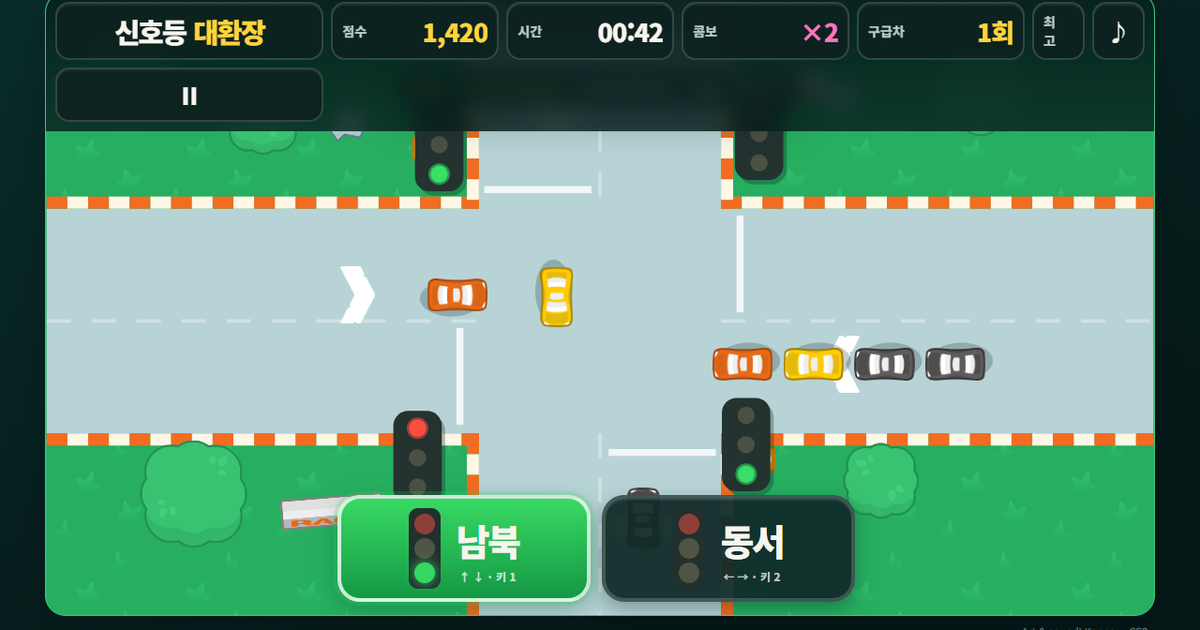
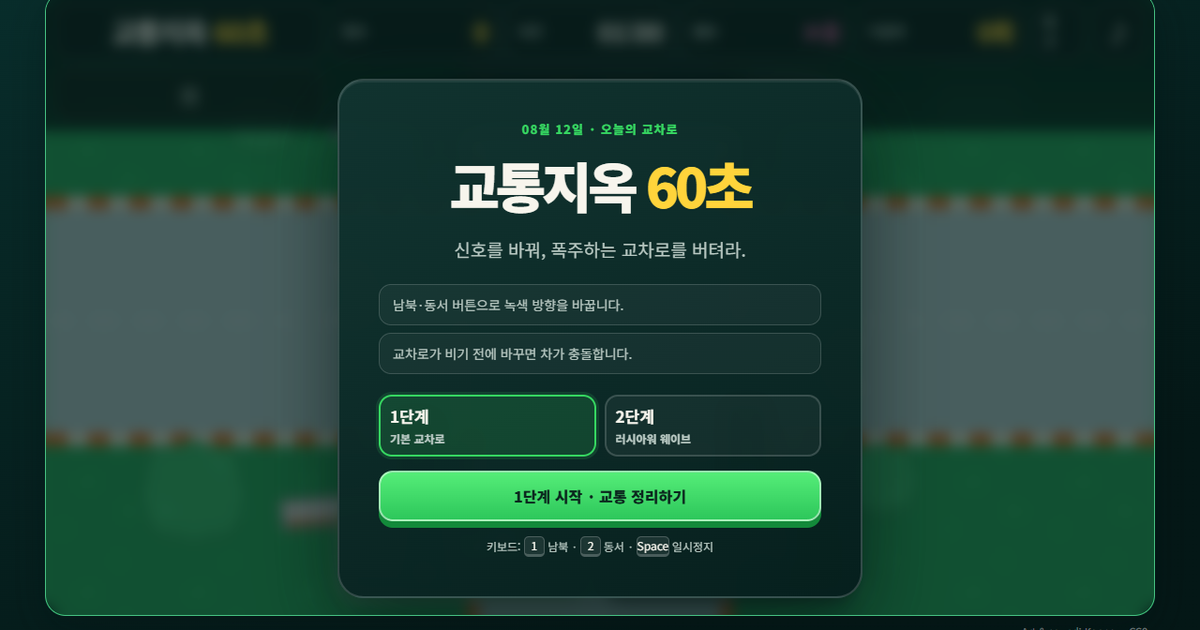
rename game to traffic hell 60 seconds

diff --git a/index.html b/index.html
@@ -6,32 +6,32 @@
     <meta name="theme-color" content="#082d2b" />
     <meta
       name="description"
-      content="두 개의 신호로 60초 교통을 지휘하고 러시아워 웨이브를 버티는 모바일 친화 탑다운 웹게임"
+      content="교통지옥 60초에서 신호를 바꿔 폭주하는 교차로를 버티는 모바일 친화 탑다운 웹게임"
     />
     <meta property="og:type" content="website" />
-    <meta property="og:site_name" content="신호등 대환장" />
+    <meta property="og:site_name" content="교통지옥 60초" />
     <link rel="canonical" href="https://traffic-madness-game.netlify.app/" />
-    <meta property="og:title" content="신호등 대환장 — 60초 교통 관제 웹게임" />
-    <meta property="og:description" content="신호를 바꿔 차량을 통과시키고, 러시아워 웨이브를 버텨 최고 점수에 도전하세요." />
+    <meta property="og:title" content="교통지옥 60초 — 폭주하는 교차로를 버텨라" />
+    <meta property="og:description" content="신호를 바꿔, 폭주하는 교차로를 버텨라." />
     <meta property="og:url" content="https://traffic-madness-game.netlify.app/" />
     <meta property="og:image" content="https://traffic-madness-game.netlify.app/og.png" />
     <meta property="og:image:width" content="1200" />
     <meta property="og:image:height" content="630" />
     <meta property="og:locale" content="ko_KR" />
     <meta name="twitter:card" content="summary_large_image" />
-    <meta name="twitter:title" content="신호등 대환장 — 60초 교통 관제 웹게임" />
-    <meta name="twitter:description" content="신호를 바꿔 차량을 통과시키고, 러시아워 웨이브를 버텨 최고 점수에 도전하세요." />
+    <meta name="twitter:title" content="교통지옥 60초 — 폭주하는 교차로를 버텨라" />
+    <meta name="twitter:description" content="신호를 바꿔, 폭주하는 교차로를 버텨라." />
     <meta name="twitter:image" content="https://traffic-madness-game.netlify.app/og.png" />
     <link rel="icon" href="/favicon.ico" sizes="32x32" />
     <link rel="icon" href="/favicon.svg?v=1" type="image/svg+xml" />
     <link rel="apple-touch-icon" href="/apple-touch-icon.png" />
     <link rel="manifest" href="/site.webmanifest?v=1" />
-    <title>신호등 대환장</title>
+    <title>교통지옥 60초 — 폭주하는 교차로를 버텨라</title>
   </head>
   <body>
     <a class="skip-link" href="#game-controls">게임 조작으로 바로가기</a>
     <main class="app" id="app">
-      <section class="game-shell" aria-label="신호등 대환장 게임">
+      <section class="game-shell" aria-label="교통지옥 60초 게임">
         <div class="game-frame" id="game-frame">
           <canvas
             id="game-canvas"
@@ -43,8 +43,8 @@
           ></canvas>
 
           <header class="hud" aria-label="게임 상태">
-            <div class="brand" aria-label="신호등 대환장">
-              <span>신호등</span><strong>대환장</strong>
+            <div class="brand" aria-label="교통지옥 60초">
+              <span>교통지옥</span><strong>60초</strong>
             </div>
             <dl class="hud-stat hud-score">
               <dt>점수</dt>
@@ -103,8 +103,8 @@
           >
             <div class="overlay-card start-card">
               <p class="eyebrow" id="daily-label">오늘의 교차로</p>
-              <h1 id="start-title">신호등 <em>대환장</em></h1>
-              <p class="lead" id="start-lead">두 신호를 바꿔 60초 동안 차를 최대한 많이 통과시키세요.</p>
+              <h1 id="start-title">교통지옥 <em>60초</em></h1>
+              <p class="lead" id="start-lead">신호를 바꿔, 폭주하는 교차로를 버텨라.</p>
               <ol class="how-to-play">
                 <li id="stage-rule-one"><b>남북·동서</b> 버튼으로 녹색 방향을 바꿉니다.</li>
                 <li id="stage-rule-two"><b>교차로가 비기 전에</b> 바꾸면 차가 충돌합니다.</li>

diff --git a/src/ui/DomView.ts b/src/ui/DomView.ts
@@ -103,7 +103,7 @@ export class DomView {
       this.stageRuleOne.textContent = "웨이브가 올라갈수록 차량이 더 빠르게 몰려옵니다.";
       this.stageRuleTwo.textContent = "웨이브를 넘길 때마다 +300점, 정체가 쌓이면 즉시 감점됩니다.";
     } else {
-      this.startLead.textContent = "두 신호를 바꿔 60초 동안 차를 최대한 많이 통과시키세요.";
+    this.startLead.textContent = "신호를 바꿔, 폭주하는 교차로를 버텨라.";
       this.stageRuleOne.textContent = "남북·동서 버튼으로 녹색 방향을 바꿉니다.";
       this.stageRuleTwo.textContent = "교차로가 비기 전에 바꾸면 차가 충돌합니다.";
     }

diff --git a/docs/gameplay-screen-v1-prompt.md b/docs/gameplay-screen-v1-prompt.md
@@ -10,7 +10,6 @@
 
 ## Final prompt
 
-Create a shippable-looking 16:9 Korean browser-game screen for `신호등 대환장`. Show a single compact top-down four-way intersection with a top HUD and two large bottom phase controls. Use only the world-object vocabulary visible in the supplied Kenney Racing Pack references: light blue-gray asphalt, orange-and-white curbs, red/orange, blue, green, yellow and gray cars, green trees, cones, barriers and road arrows. Use simple CSS-buildable panels and red/yellow/green circles for signals and HUD. Include the labels `신호등 대환장`, `점수 12,480`, `00:42`, `콤보 ×6`, `최고 18,920`, `남북`, and `동서`. Do not add buildings, pedestrians, emergency vehicles, characters, brands, watermarks or new illustrated world objects. Keep the camera orthographic top-down and the style crisp, flat and consistent with the provided Kenney references.
+Create a shippable-looking 16:9 Korean browser-game screen for `교통지옥 60초`. Show a single compact top-down four-way intersection with a top HUD and two large bottom phase controls. Use only the world-object vocabulary visible in the supplied Kenney Racing Pack references: light blue-gray asphalt, orange-and-white curbs, red/orange, blue, green, yellow and gray cars, green trees, cones, barriers and road arrows. Use simple CSS-buildable panels and red/yellow/green circles for signals and HUD. Include the labels `교통지옥 60초`, `점수 12,480`, `00:42`, `콤보 ×6`, `최고 18,920`, `남북`, and `동서`. Do not add buildings, pedestrians, emergency vehicles, characters, brands, watermarks or new illustrated world objects. Keep the camera orthographic top-down and the style crisp, flat and consistent with the provided Kenney references.
 
 The generated PNG is a layout and art-direction reference. Production gameplay must reconstruct the world from the licensed source sprites and CSS UI rather than sampling the PNG as a texture.
-

diff --git a/README.md b/README.md
@@ -1,6 +1,6 @@
-# 신호등 대환장
+# 교통지옥 60초
 
-두 개의 신호만 바꿔 60초 동안 차량을 최대한 많이 통과시키는 탑다운 교통 관제 웹게임입니다.
+신호를 바꿔, 폭주하는 교차로를 버티는 60초 탑다운 교통 관제 웹게임입니다.
 
 ## 실행
 

diff --git a/docs/PLAN.md b/docs/PLAN.md
@@ -1,4 +1,4 @@
-# 신호등 대환장 — 구현 계획
+# 교통지옥 60초 — 구현 계획
 
 상태: MVP와 2단계 특수 차량·연쇄 정체 구현 및 QA 완료. 2026-08-12 기준 배포 가능한 정적 빌드 검증 완료.
 

diff --git a/docs/QA_REPORT.md b/docs/QA_REPORT.md
@@ -1,4 +1,4 @@
-# 신호등 대환장 — QA 보고서
+# 교통지옥 60초 — QA 보고서
 
 검증일: 2026-08-12  
 전체 판정: **PASS**
